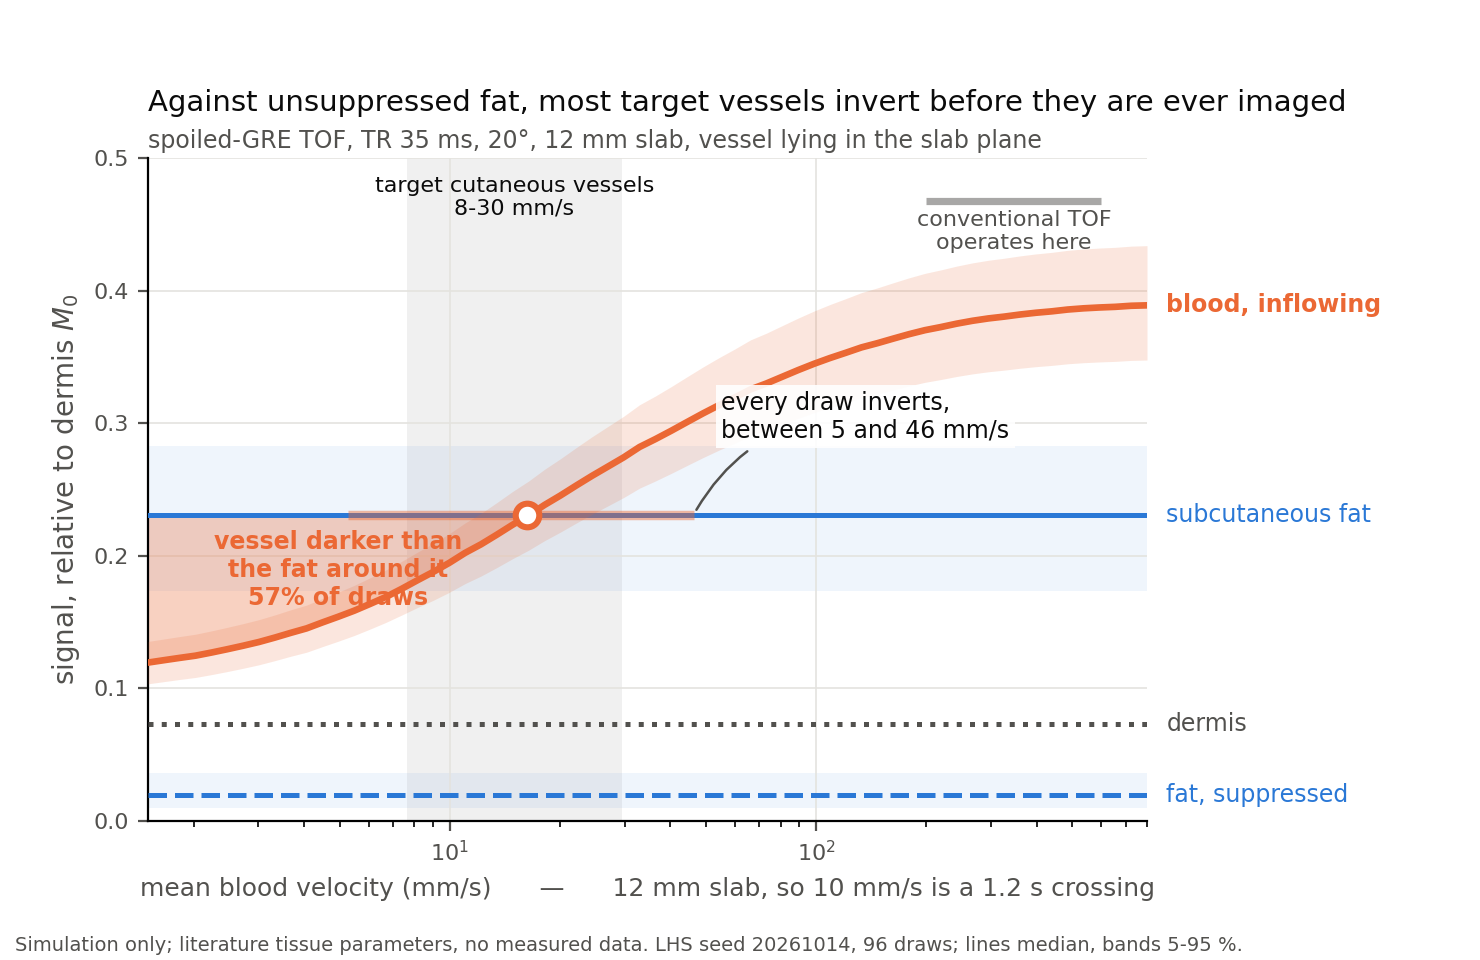
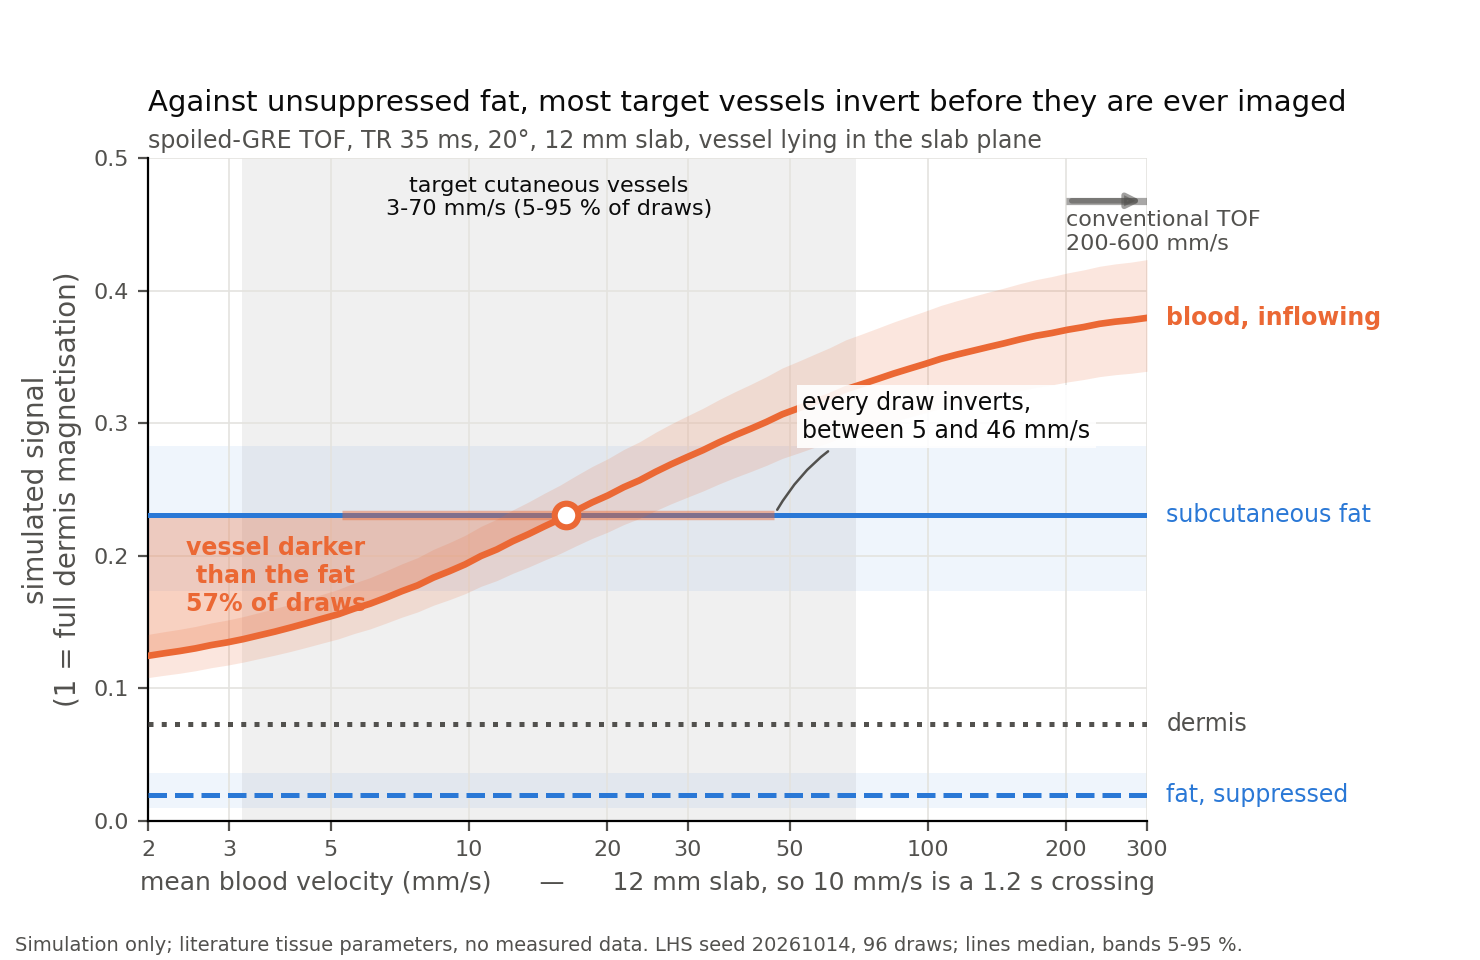
Fix three things a reader would trip over in Figure 1b
The band said 8-30 mm/s while the parameter it draws from says 5-50.
It was the interquartile range, which is also inconsistent with every
other band on the figure - those are all 5-95 %. Now 5-95 % too, which
reads 3-70 mm/s, and the label says so rather than leaving the reader to
guess which interval it is.

The x axis labelled only the decades, so values could not be read off,
and a third of its width was spent on a plateau where nothing happens.
Narrowed to 2-300 mm/s with ticks at 2, 3, 5, 10, 20, 30, 50, 100, 200,
300. The conventional-TOF range is now an arrow off the right edge with
its real numbers on it, which costs no axis width.

"signal, relative to dermis M0" said nothing to anyone who has not read
tissues.py. The axis now states the unit it is in: 1 = full dermis
magnetisation.

diff --git a/figures/fig1b_regime.py b/figures/fig1b_regime.py
@@ -42,8 +42,8 @@ SEED, N_DRAWS = 20261014, 96
 TR_MS, FLIP_DEG = 35.0, 20.0
 SLAB_MM = 12.0  # stated: the transit time that governs inflow is SLAB_MM / velocity
 INPLANE_MM = 0.3
-VELOCITIES = np.geomspace(1.5, 800.0, 64)
-INTRACRANIAL_MM_S = (200.0, 600.0)  # typical TOF operating range, for scale only
+VELOCITIES = np.geomspace(2.0, 300.0, 64)
+INTRACRANIAL_MM_S = (200.0, 300.0)  # lower end of the 200-600 mm/s TOF range; arrow marks the rest
 KEYS = ("arterial_blood", "hypodermis", "dermis")
 
 
@@ -129,11 +129,11 @@ def main() -> None:
     samples, draw_velocities = draw()
     plain, fatsat = sequences()
     blood = blood_curve(plain, samples)  # blood is on-resonance: the fat pulse leaves it untouched
-    v25, v75 = np.percentile(cutaneous_velocities(), [25, 75])
+    v_lo, v_hi = np.percentile(cutaneous_velocities(), [5, 95])
 
     fig, ax = plt.subplots(figsize=(7.4, 4.8))
     fig.subplots_adjust(left=0.10, right=0.775, top=0.835, bottom=0.145)
-    ax.axvspan(v25, v75, color=INK, alpha=0.06, lw=0, zorder=0)
+    ax.axvspan(v_lo, v_hi, color=INK, alpha=0.06, lw=0, zorder=0)
 
     fat_u = hline(ax, flat(plain, samples, "hypodermis"), FAT_C, "-")
     fat_s = hline(ax, flat(fatsat, samples, "hypodermis"), FAT_C, "--")
@@ -157,8 +157,8 @@ def main() -> None:
     ax.plot([x5, x95], [fat_u, fat_u], color=BLOOD_C, lw=3.4, solid_capstyle="butt", alpha=0.45, zorder=6)
     ax.plot([x50], [fat_u], "o", ms=8.5, mfc="white", mec=BLOOD_C, mew=2.2, zorder=7)
 
-    ax.annotate(f"vessel darker than\nthe fat around it\n{frac:.0%} of draws",
-                (np.sqrt(VELOCITIES[0] * x50), fat_u * 0.82), ha="center", va="center",
+    ax.annotate(f"vessel darker\nthan the fat\n{frac:.0%} of draws",
+                (VELOCITIES[0] * 1.9, fat_u * 0.80), ha="center", va="center",
                 fontsize=8.5, color=BLOOD_C, weight="bold", zorder=8)
     ax.annotate(f"every draw inverts,\nbetween {x5:.0f} and {x95:.0f} mm/s",
                 (x95, fat_u), xytext=(10, 26), textcoords="offset points",
@@ -166,12 +166,14 @@ def main() -> None:
                 bbox=dict(fc="white", ec="none", alpha=0.9, pad=2.0),
                 arrowprops=dict(arrowstyle="-", color=INK_2, lw=0.9, connectionstyle="arc3,rad=0.3"))
 
-    ax.annotate(f"target cutaneous vessels\n{v25:.0f}-{v75:.0f} mm/s", (np.sqrt(v25 * v75), 0.487),
-                ha="center", va="top", fontsize=8, color=INK)
+    ax.annotate(f"target cutaneous vessels\n{v_lo:.0f}-{v_hi:.0f} mm/s (5-95 % of draws)",
+                (np.sqrt(v_lo * v_hi), 0.487), ha="center", va="top", fontsize=8, color=INK)
     ic = INTRACRANIAL_MM_S
     ax.plot(ic, [0.468, 0.468], color=INK_2, lw=2.6, solid_capstyle="butt", alpha=0.5)
-    ax.annotate("conventional TOF\noperates here", (np.sqrt(ic[0] * ic[1]), 0.461), ha="center", va="top",
+    ax.annotate("conventional TOF\n200-600 mm/s", (ic[0], 0.461), ha="left", va="top",
                 fontsize=8, color=INK_2)
+    ax.annotate("", (ic[1], 0.468), xytext=(ic[0], 0.468),
+                arrowprops=dict(arrowstyle="-|>", color=INK_2, lw=2.0, alpha=0.55))
 
     for y, text, colour, weight in ((mid[-1], "blood, inflowing", BLOOD_C, "bold"),
                                     (fat_u, "subcutaneous fat", FAT_C, "normal"),
@@ -184,18 +186,23 @@ def main() -> None:
     ax.set(xscale="log", xlim=(VELOCITIES[0], VELOCITIES[-1]), ylim=(0, 0.50))
     ax.set_xlabel(f"mean blood velocity (mm/s)      —      {SLAB_MM:g} mm slab, so 10 mm/s is a "
                   f"{SLAB_MM / 10:.1f} s crossing", color=INK_2, fontsize=9)
-    ax.set_ylabel("signal, relative to dermis $M_0$", color=INK_2)
+    ax.set_ylabel("simulated signal\n(1 = full dermis magnetisation)", color=INK_2)
     ax.set_title("Against unsuppressed fat, most target vessels invert before they are ever imaged",
                  fontsize=10.5, color=INK, loc="left", pad=17)
     ax.text(0, 1.016, f"spoiled-GRE TOF, TR {TR_MS:g} ms, {FLIP_DEG:g}°, {SLAB_MM:g} mm slab, "
                       f"vessel lying in the slab plane", transform=ax.transAxes, fontsize=8.5, color=INK_2)
+    from matplotlib.ticker import FixedFormatter, FixedLocator
+    ticks = [2, 3, 5, 10, 20, 30, 50, 100, 200, 300]
+    ax.xaxis.set_major_locator(FixedLocator(ticks))
+    ax.xaxis.set_major_formatter(FixedFormatter([str(t) for t in ticks]))
+    ax.xaxis.set_minor_locator(FixedLocator([]))
     ax.grid(color=GRID, lw=0.6, zorder=0)
     ax.tick_params(colors=INK_2, labelsize=8)
     for side in ("top", "right"):
         ax.spines[side].set_visible(False)
 
     print(f"Backgrounds (median, dermis M0): fat {fat_u:.3f}, fat suppressed {fat_s:.3f}, dermis {derm:.3f}")
-    print(f"Target cutaneous velocity IQR {v25:.0f}-{v75:.0f} mm/s")
+    print(f"Target cutaneous velocity 5-95 % of draws: {v_lo:.0f}-{v_hi:.0f} mm/s")
     print(f"Inversion against unsuppressed fat: {len(xs)}/{N_DRAWS} draws invert; "
           f"velocity {x50:.0f} mm/s [{x5:.0f}-{x95:.0f}], transit {SLAB_MM / x50:.2f} s "
           f"[{SLAB_MM / x95:.2f}-{SLAB_MM / x5:.2f}]")
